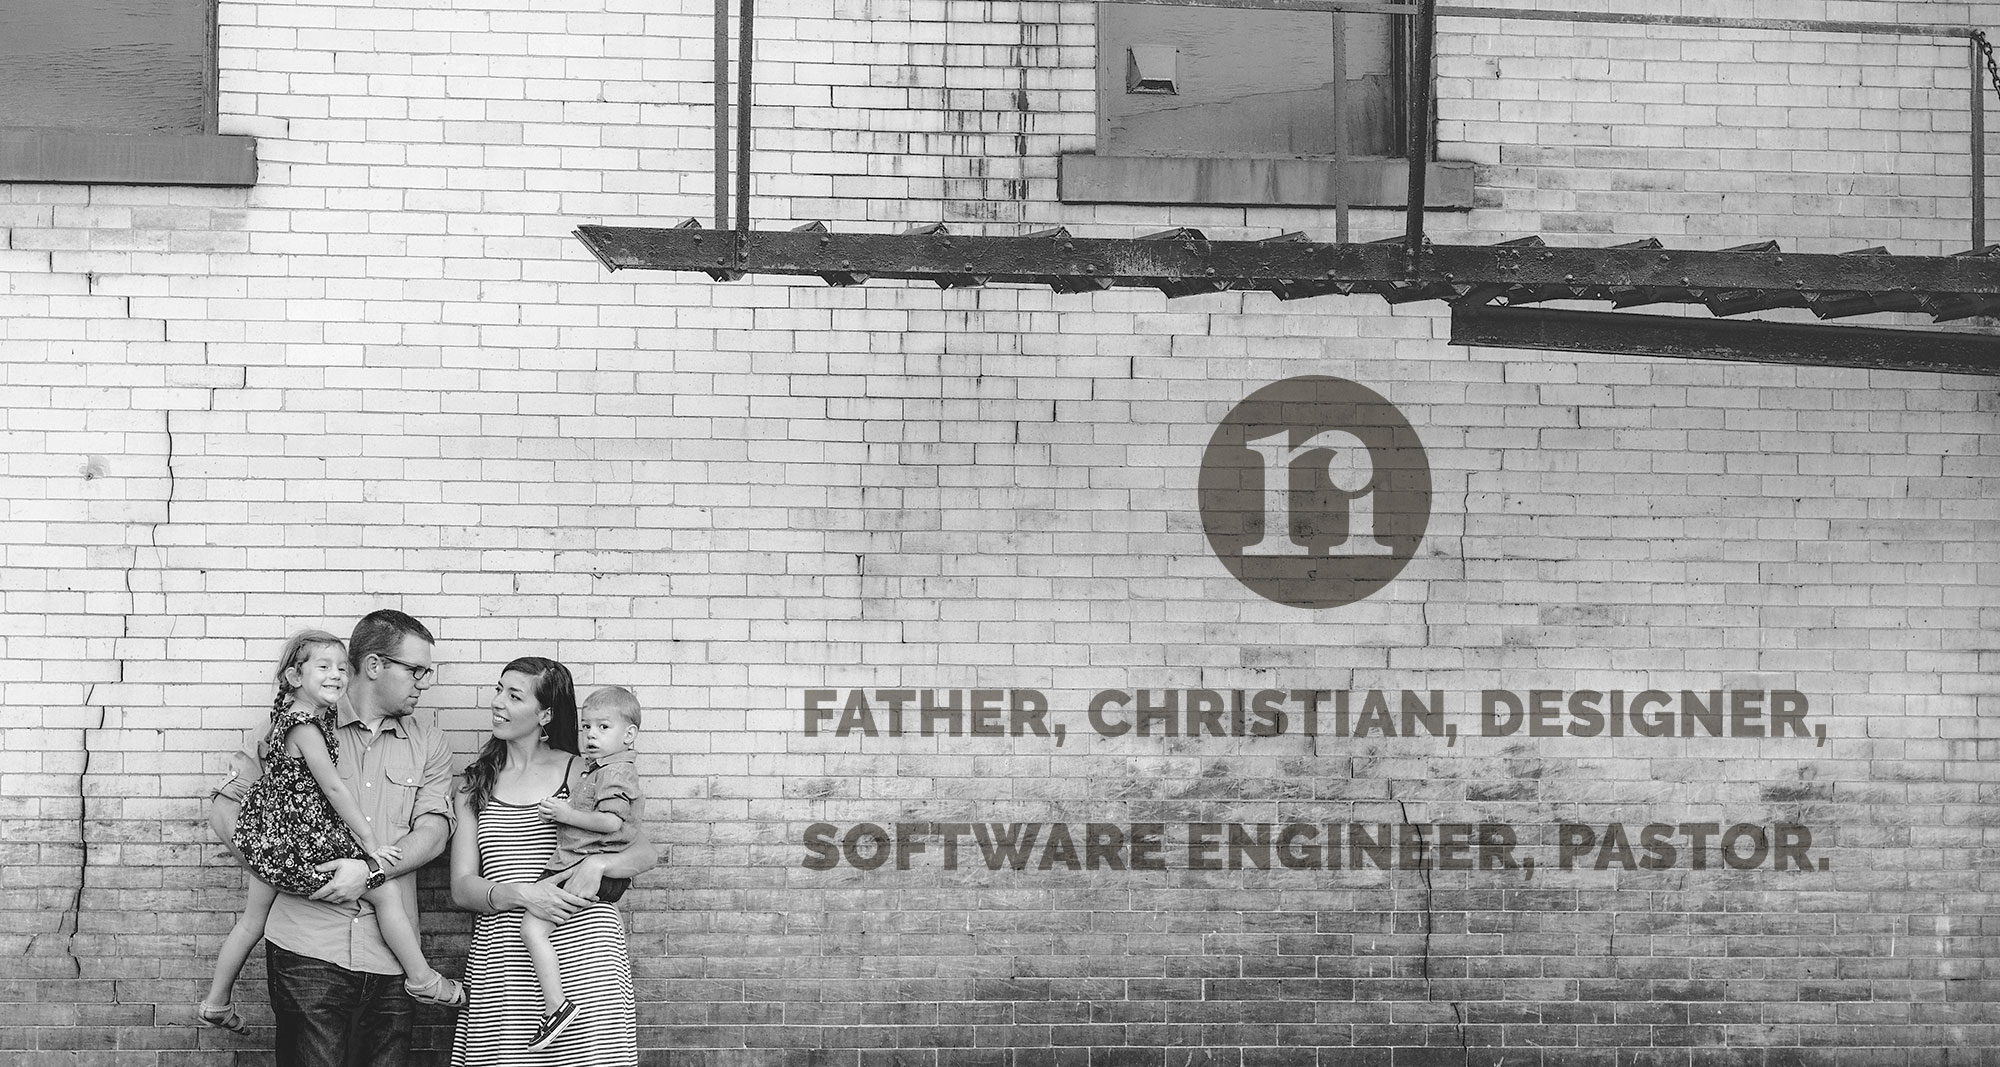
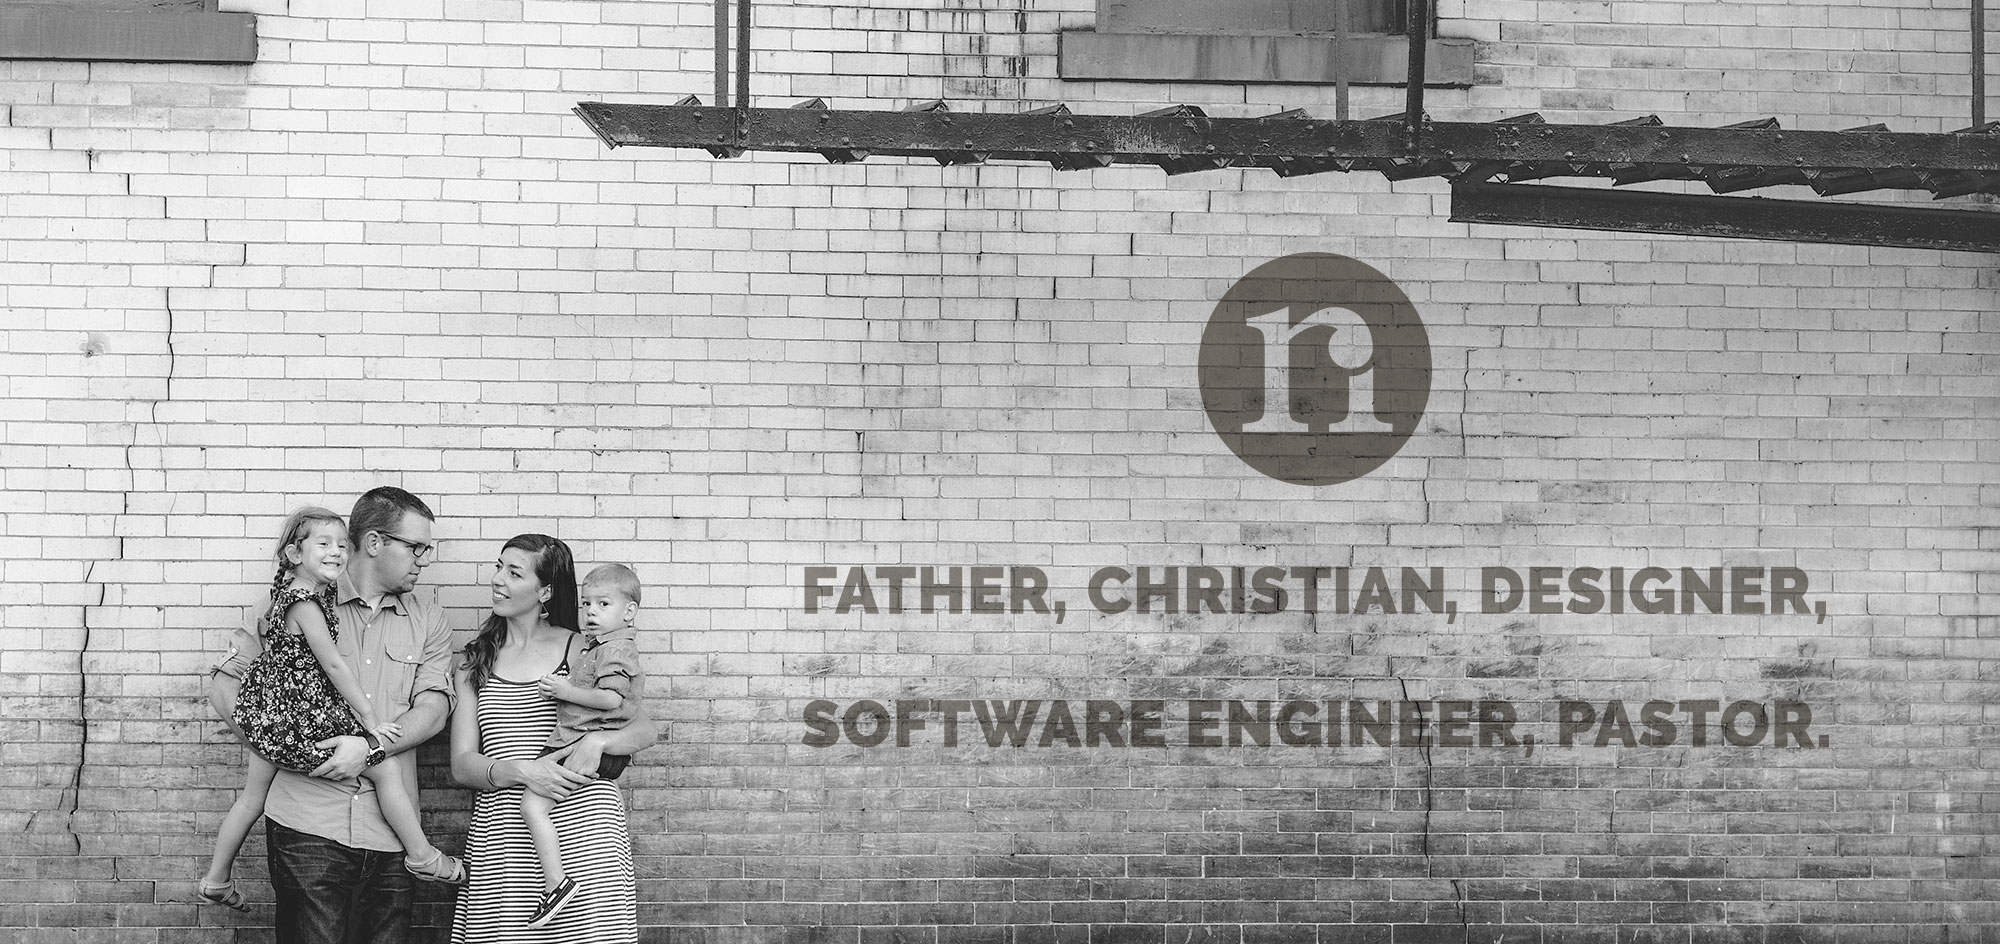
Update index view

diff --git a/css/style.scss b/css/style.scss
@@ -9,6 +9,10 @@
 @import "fonts/raleway";
 @import "fonts/vollkorn";
 
-// Site Styles
+// Site Variables
 @import "nr/variables";
+
+// Site Styles
+@import "nr/layout";
+@import "nr/images";
 @import "nr/typography";

diff --git a/_layouts/home.html b/_layouts/home.html
@@ -1,0 +1,9 @@
+---
+layout: default
+---
+
+<div class="index-banner">
+    <img src="/img/banner.jpg" />
+</div>
+
+{{ content }}

diff --git a/index.html b/index.html
@@ -1,5 +1,5 @@
 ---
-layout: default
+layout: home
 title: A collection of musings
 ---
 

diff --git a/_sass/nr/_layout.scss b/_sass/nr/_layout.scss
@@ -1,0 +1,4 @@
+body {
+    margin: 0;
+    padding: 0;
+}

diff --git a/_sass/nr/_images.scss b/_sass/nr/_images.scss
@@ -1,0 +1,3 @@
+img {
+    max-width: 100%;
+}
